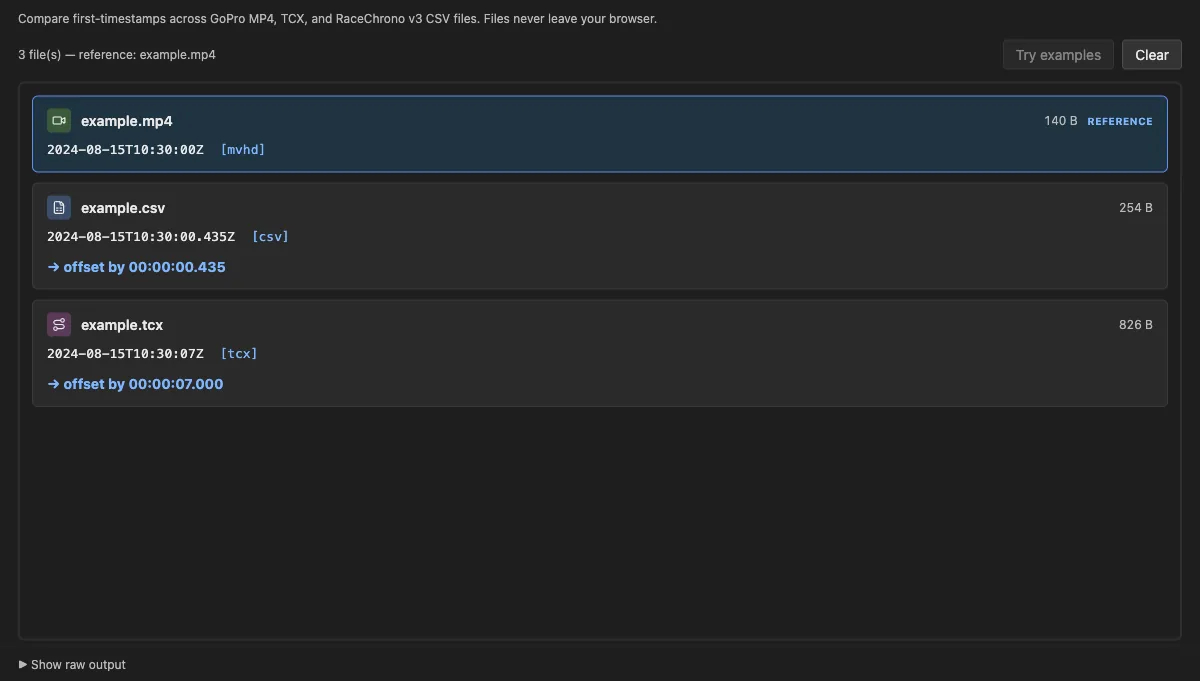
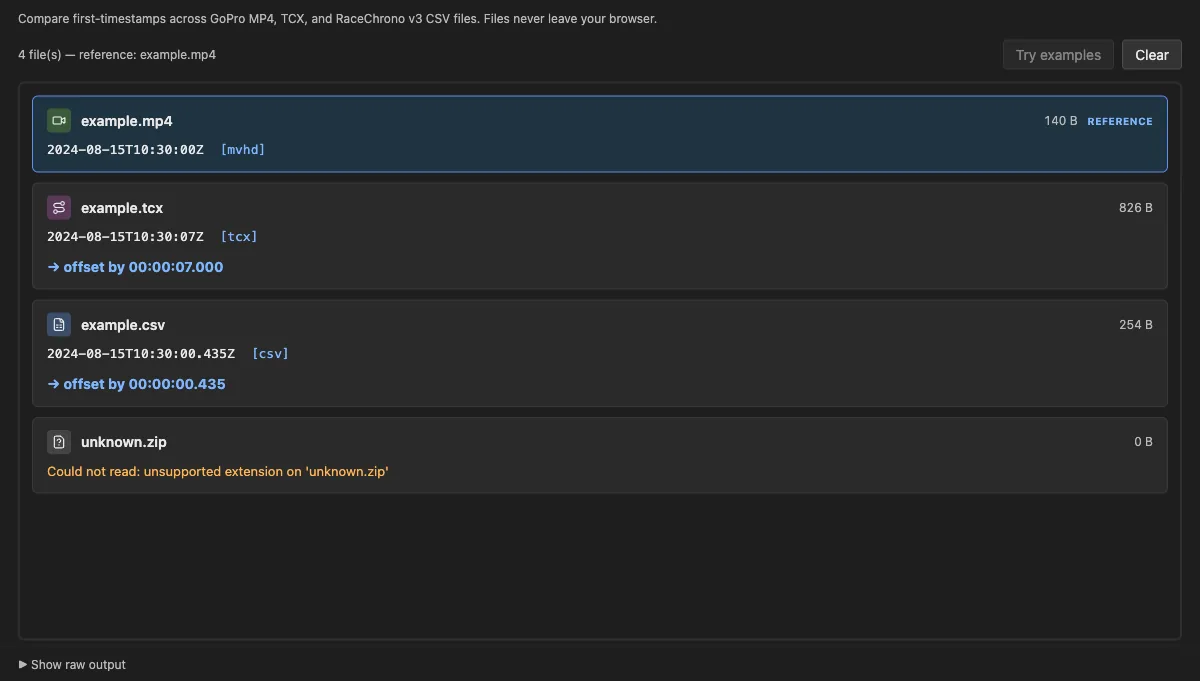
feat: new preview and updated biome fixes

diff --git a/src/components/DropZone.tsx b/src/components/DropZone.tsx
@@ -17,7 +17,7 @@ export function DropZone({ onFiles, empty, placeholder, children }: Props) {
 
   const open = useCallback(() => inputRef.current?.click(), []);
 
-  const onDragOver = useCallback((e: DragEvent<HTMLDivElement>) => {
+  const onDragOver = useCallback((e: DragEvent<HTMLElement>) => {
     e.preventDefault();
     setHover(true);
   }, []);
@@ -25,7 +25,7 @@ export function DropZone({ onFiles, empty, placeholder, children }: Props) {
   const onDragLeave = useCallback(() => setHover(false), []);
 
   const onDrop = useCallback(
-    (e: DragEvent<HTMLDivElement>) => {
+    (e: DragEvent<HTMLElement>) => {
       e.preventDefault();
       setHover(false);
       const files = Array.from(e.dataTransfer.files);
@@ -35,8 +35,9 @@ export function DropZone({ onFiles, empty, placeholder, children }: Props) {
   );
 
   return (
-    <div
+    <section
       className={`${styles.dropZone} ${hover ? styles.hover : ""}`}
+      aria-label="File drop area"
       onDragOver={onDragOver}
       onDragLeave={onDragLeave}
       onDrop={onDrop}
@@ -70,6 +71,6 @@ export function DropZone({ onFiles, empty, placeholder, children }: Props) {
           e.target.value = "";
         }}
       />
-    </div>
+    </section>
   );
 }

diff --git a/src/components/ResultCard.tsx b/src/components/ResultCard.tsx
@@ -51,7 +51,12 @@ function badgeClass(kind: FileKind): string {
 function KindBadge({ kind }: { kind: FileKind }) {
   const Icon = KIND_ICON[kind];
   return (
-    <span className={badgeClass(kind)} aria-label={KIND_LABEL[kind]} title={KIND_LABEL[kind]}>
+    <span
+      className={badgeClass(kind)}
+      role="img"
+      aria-label={KIND_LABEL[kind]}
+      title={KIND_LABEL[kind]}
+    >
       <Icon size={14} strokeWidth={2} aria-hidden />
     </span>
   );
@@ -68,7 +73,11 @@ export function ResultCard({ state }: Props) {
     return (
       <div className={styles.card}>
         <div className={styles.header}>
-          <span className={`${styles.badge} ${styles.pending}`} aria-label="Reading file">
+          <span
+            className={`${styles.badge} ${styles.pending}`}
+            role="img"
+            aria-label="Reading file"
+          >
             <Loader2 size={14} strokeWidth={2} className={styles.spin} aria-hidden />
           </span>
           <span className={styles.filename} title={file.name}>

diff --git a/src/lib/mp4/timestamps.ts b/src/lib/mp4/timestamps.ts
@@ -64,7 +64,7 @@ async function extractMvhd(f: RandomAccessFile, moov: Atom): Promise<StampSource
 
 function extractMdhd(tracks: readonly TrackInfo[]): StampSource {
   const vide = tracks.find((t) => t.handlerType === "vide" && t.mdhd !== null);
-  if (!vide || !vide.mdhd) return missingSource("mdhd", "no video track with mdhd");
+  if (!vide?.mdhd) return missingSource("mdhd", "no video track with mdhd");
   return {
     name: "mdhd",
     epoch: vide.mdhd.creationUnix,

diff --git a/src/lib/sync.ts b/src/lib/sync.ts
@@ -8,7 +8,7 @@
 
 import { rcCsvFirstTimestamp } from "./external/rcCsv.ts";
 import { tcxFirstTimestamp } from "./external/tcx.ts";
-import { DEFAULT_AUTO_ORDER, type TimestampReport, extractTimestamps } from "./mp4/timestamps.ts";
+import { DEFAULT_AUTO_ORDER, extractTimestamps, type TimestampReport } from "./mp4/timestamps.ts";
 import { RandomAccessFile } from "./randomAccessFile.ts";
 
 export type FileKind = "mp4" | "tcx" | "csv" | "unknown";

diff --git a/src/App.tsx b/src/App.tsx
@@ -130,7 +130,7 @@ export default function App() {
   const onClear = useCallback(() => setSlots([]), []);
 
   const onLoadExamples = useCallback(async () => {
-    const names = ["example.mp4", "example.tcx", "example.csv"] as const;
+    const names = ["example.mp4", "example.tcx", "example.csv", "unknown.zip"] as const;
     const blobs = await Promise.all(
       names.map((n) => fetch(`./examples/${n}`).then((r) => r.blob())),
     );

diff --git a/src/components/DropZone.module.css b/src/components/DropZone.module.css
@@ -6,7 +6,9 @@
   display: flex;
   flex-direction: column;
   overflow: auto;
-  transition: border-color 80ms ease, background 80ms ease;
+  transition:
+    border-color 80ms ease,
+    background 80ms ease;
 }
 
 .dropZone.hover {
